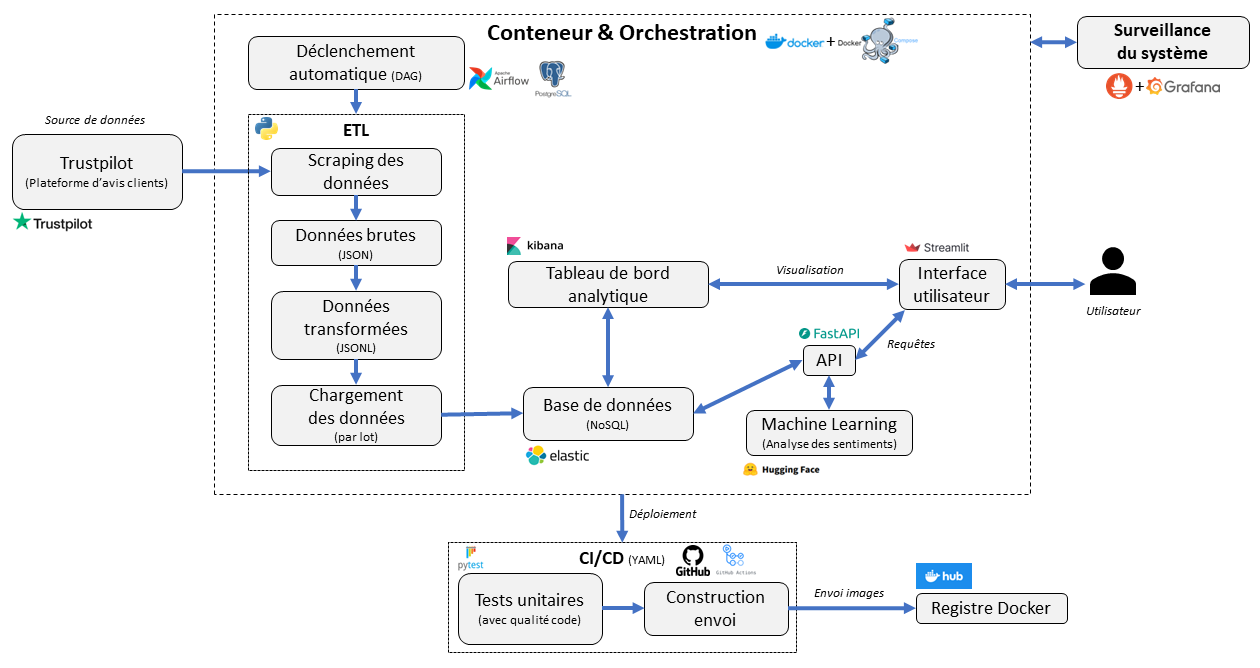
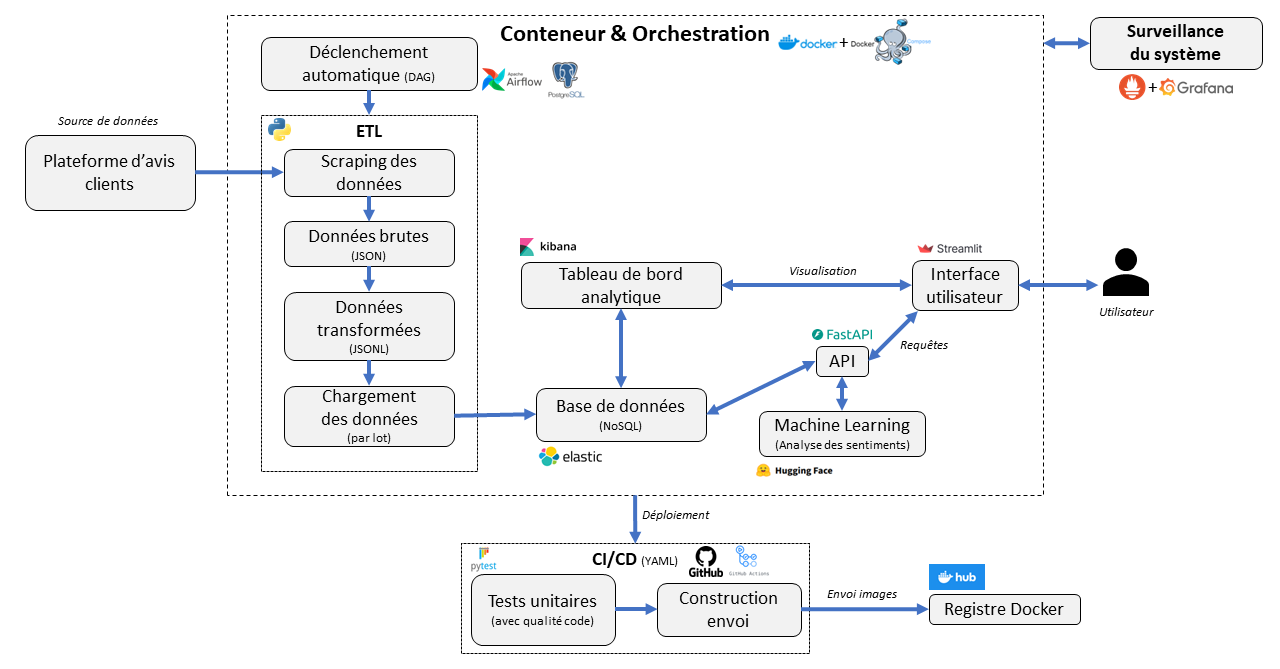
feat: màj readme et ajout commentaire dans start_stack et correctifs divers

diff --git a/src/etl/extract/reviews_scraper.py b/src/etl/extract/reviews_scraper.py
@@ -1,10 +1,10 @@
 # File: src\etl\extract\reviews_scraper.py
 
 """
-Module pour scraper les avis Trustpilot d'une ou plusieurs entreprises.
+Module pour scraper les avis d'une ou plusieurs entreprises.
 
-Ce module permet d'extraire les avis Trustpilot à partir de l'URL d'une entreprise,
-en utilisant l'API de Trustpilot, tout en gérant la pagination et les erreurs éventuelles.
+Ce module permet d'extraire les avis à partir de l'URL d'une entreprise,
+en utilisant l'API, tout en gérant la pagination et les erreurs éventuelles.
 
 Les avis sont récupérés par pages, avec un maximum configurable par entreprise.
 """
@@ -26,20 +26,20 @@ logger.info(f"Entreprises configurées : {[e['enterprise_url'] for e in ENTERPRI
 
 async def get_reviews_url_api(url_base: str) -> str:
     """
-    Génére l'URL de l'API Trustpilot pour récupérer les avis d'une entreprise.
+    Génére l'URL de l'API pour récupérer les avis d'une entreprise.
 
     Cette fonction extrait dynamiquement le 'buildId' de la page HTML de l'entreprise
-    et construit l'URL de l'API Trustpilot pour accéder aux avis.
+    et construit l'URL de l'API pour accéder aux avis.
 
     Parameters
     ----------
     url_base : str
-        L'URL de la page de l'entreprise sur Trustpilot (par exemple : "https://www.trustpilot.com/review/enterprise_url").
+        L'URL de la page de l'entreprise.
         
     Returns
     -------
     str
-        L'URL complète de l'API Trustpilot pour récupérer les avis de l'entreprise.
+        L'URL complète de l'API pour récupérer les avis de l'entreprise.
         
     Raises
     -----
@@ -61,9 +61,9 @@ async def get_reviews_url_api(url_base: str) -> str:
         # Récupération de l'ID de l'entreprise dans l'URL
         business_unit = url_base.split("review/")[-1]
 
-        # Construction de l'URL de l'API interne Trustpilot (Next.js)
+        # Construction de l'URL de l'API interne(Next.js)
         # - build_id      : identifiant dynamique de build extrait de la page HTML
-        # - business_unit : identifiant de l'entreprise sur Trustpilot
+        # - business_unit : identifiant de l'entreprise
         # - sort=recency  : tri des avis par date la plus récente
         # - languages=fr  : récupération des avis en français uniquement
         url_api = (
@@ -78,7 +78,7 @@ async def get_reviews_url_api(url_base: str) -> str:
 
 async def scrape_reviews(url_base: str, max_pages: int = 1) -> List[Dict]:
     """
-    Récupère et agrège les avis depuis l'API Trustpilot avec gestion de la pagination.
+    Récupère et agrège les avis depuis l'API avec gestion de la pagination.
 
     Cette fonction effectue un scraping des avis d'une entreprise en plusieurs pages si nécessaire.
     Les résultats sont retournés sous forme de liste d'objets JSON contenant les avis.
@@ -86,7 +86,7 @@ async def scrape_reviews(url_base: str, max_pages: int = 1) -> List[Dict]:
     Parameters
     ----------
     url_base : str
-        L'URL de la page de l'entreprise sur Trustpilot (par exemple : "https://www.trustpilot.com/review/enterprise_url").
+        L'URL de la page de l'entreprise.
         
     max_pages : int, optionnel
         Le nombre maximal de pages à récupérer. Par défaut, 1.
@@ -183,7 +183,7 @@ async def get_reviews_from_trustpilot(max_pages: int) -> List[Dict]:
     List[Dict]
         Une liste de dictionnaires contenant les résultats du scraping pour chaque entreprise. 
         Chaque dictionnaire contient :
-        - 'enterprise_url': URL de l'entreprise sur Trustpilot.
+        - 'enterprise_url': URL de l'entreprise.
         - 'enterprise': Informations générales sur l'entreprise (note moyenne, nombre d'avis, etc.).
         - 'reviews': Liste des avis récupérés sous forme de dictionnaires.
 

diff --git a/src/etl/transform/transform_reviews.py b/src/etl/transform/transform_reviews.py
@@ -1,9 +1,9 @@
 # File: src\etl\transform\transform_reviews.py
 
 """
-Module pour transformer les avis Trustpilot en documents compatibles Elasticsearch.
+Module pour transformer les avis en documents compatibles Elasticsearch.
 
-Ce module permet de transformer les avis récupérés depuis Trustpilot en documents structurés et prêts à être
+Ce module permet de transformer les avis récupérés depuis en documents structurés et prêts à être
 indexés dans Elasticsearch. Les avis vides sont remplacés par des valeurs par défaut ("indisponible"), et
 les informations sont nettoyées et formatées pour une insertion efficace dans Elasticsearch.
 """
@@ -48,7 +48,7 @@ def transform_reviews_for_elasticsearch(raw_list: List[Dict[str, Any]]) -> List[
     Transforme tous les avis de toutes les entreprises en documents prêts pour Elasticsearch,
     en nettoyant les avis et en remplaçant les champs vides par des valeurs par défaut.
 
-    Cette fonction prend en entrée une liste de dictionnaires représentant les avis bruts extraits de Trustpilot,
+    Cette fonction prend en entrée une liste de dictionnaires représentant les avis bruts extraits,
     et retourne une nouvelle liste de documents formatés pour Elasticsearch. Les avis vides ou malformés sont
     remplacés par des valeurs par défaut (ex : "indisponible"), et les valeurs numériques sont formatées pour
     correspondre aux attentes d'Elasticsearch (par exemple, les pourcentages sont calculés).
@@ -56,7 +56,7 @@ def transform_reviews_for_elasticsearch(raw_list: List[Dict[str, Any]]) -> List[
     Parameters
     -----------
     raw_list : List[Dict[str, Any]]
-        Une liste de dictionnaires représentant les avis bruts extraits de Trustpilot. Chaque dictionnaire
+        Une liste de dictionnaires représentant les avis bruts extraits. Chaque dictionnaire
         contient des informations sur les avis ainsi que sur l'entreprise associée.
 
     Returns

diff --git a/src/etl/pipeline/reviews_etl.py b/src/etl/pipeline/reviews_etl.py
@@ -1,10 +1,10 @@
 # File: src\etl\pipeline\reviews_etl.py
 
 """
-Module pour exécuter l'ETL des avis Trustpilot (extraction, transformation, sauvegarde et chargement).
+Module pour exécuter l'ETL des avis (extraction, transformation, sauvegarde et chargement).
 
-Ce module orchestre l'ensemble du processus ETL pour les avis Trustpilot : 
-1. Extraction des avis depuis Trustpilot.
+Ce module orchestre l'ensemble du processus ETL pour les avis : 
+1. Extraction des avis.
 2. Transformation des données brutes en documents adaptés pour Elasticsearch.
 3. Sauvegarde des données transformées au format JSONL.
 4. Chargement des données dans Elasticsearch via une insertion en bulk.
@@ -29,7 +29,7 @@ def run_reviews_etl(
     do_load: bool = True
 ) -> None:
     """
-    Lance le pipeline ETL complet des avis Trustpilot avec des options pour exécuter chaque étape.
+    Lance le pipeline ETL complet des avis avec des options pour exécuter chaque étape.
 
     Ce pipeline est constitué de plusieurs étapes : extraction, transformation, sauvegarde et chargement.
     Chaque étape peut être activée ou désactivée en fonction des besoins via les paramètres 'do_extract',
@@ -38,10 +38,10 @@ def run_reviews_etl(
     Parameters
     -----------
     max_pages : int, optionnel
-        Le nombre maximal de pages d'avis à extraire depuis Trustpilot. Par défaut, 1.
+        Le nombre maximal de pages d'avis à extraire. Par défaut, 1.
 
     do_extract : bool, optionnel
-        Si 'True', l'extraction des avis depuis Trustpilot est effectuée. Par défaut, 'True'.
+        Si 'True', l'extraction des avis est effectuée. Par défaut, 'True'.
 
     do_transform : bool, optionnel
         Si 'True', les avis extraits sont transformés en documents compatibles avec Elasticsearch. Par défaut, 'True'.

diff --git a/src/etl/main.py b/src/etl/main.py
@@ -3,14 +3,14 @@
 """
 Main script
 -----------
-Exécution du pipeline ETL pour récupérer les avis Trustpilot, avec possibilité de définir
+Exécution du pipeline ETL pour récupérer les avis, avec possibilité de définir
 le nombre de pages à scraper.
 
-Ce script permet de lancer un pipeline ETL complet pour récupérer les avis des entreprises
-sur Trustpilot. Le nombre de pages à scraper peut être spécifié via la ligne de commande.
+Ce script permet de lancer un pipeline ETL complet pour récupérer les avis des entreprises.
+Le nombre de pages à scraper peut être spécifié via la ligne de commande.
 
 Le pipeline ETL inclut les étapes suivantes :
-1. Extraction des avis depuis Trustpilot.
+1. Extraction des avis.
 2. Transformation des avis pour les rendre compatibles avec Elasticsearch.
 3. Sauvegarde des données en format JSONL.
 4. Chargement des données dans Elasticsearch.
@@ -31,7 +31,7 @@ MAX_PAGES = 10
 
 def run_pipeline(pages: int) -> None:
     """
-    Lance le pipeline ETL pour récupérer les avis Trustpilot et effectuer les étapes
+    Lance le pipeline ETL pour récupérer les avis et effectuer les étapes
     d'extraction, transformation, sauvegarde et chargement.
 
     Parameters
@@ -52,7 +52,7 @@ def run_pipeline(pages: int) -> None:
 
 if __name__ == "__main__":
     # Parsing des arguments de ligne de commande
-    parser = argparse.ArgumentParser(description="Lancer le pipeline ETL Trustpilot")
+    parser = argparse.ArgumentParser(description="Lancement du pipeline ETL")
     parser.add_argument(
         "--pages",
         type=int,

diff --git a/src/airflow/dags/etl_reviews_dag.py b/src/airflow/dags/etl_reviews_dag.py
@@ -1,7 +1,7 @@
 # File: src\airflow\dags\etl_reviews_dag.py
 
 """
-Ce module définit un DAG Airflow pour exécuter périodiquement le pipeline ETL des avis Trustpilot.
+Ce module définit un DAG Airflow pour exécuter périodiquement le pipeline ETL des avis.
 Le DAG est configuré pour s'exécuter toutes les 3 jours à minuit et lance une tâche Bash
 qui exécute le script principal du pipeline ETL avec un paramètre spécifiant le nombre de pages à scraper.
 

diff --git a/src/tests/test_reviews_scraper.py b/src/tests/test_reviews_scraper.py
@@ -1,9 +1,9 @@
 # File: tests\test_reviews_scraper.py
 
 """
-Test de l'accessibilité de l'URL Trustpilot.
+Test de l'accessibilité de l'URL.
 
-Ce test effectue une requête HTTP GET sur l'URL d'une entreprise sur Trustpilot
+Ce test effectue une requête HTTP GET sur l'URL d'une entreprise
 pour vérifier si la page est accessible (statut HTTP 200).
 """
 

diff --git a/src/tests/test_transform_reviews.py b/src/tests/test_transform_reviews.py
@@ -11,7 +11,7 @@ les pourcentages de chaque note sont calculés correctement.
 from etl.transform.transform_reviews import transform_reviews_for_elasticsearch
 
 
-# Exemple de données brutes (avis Trustpilot)
+# Exemple de données brutes
 raw_reviews = [
     {
         "reviews": [

diff --git a/README.md b/README.md
@@ -4,12 +4,25 @@
 
 ![Schéma d'architecture du projet](images\architecture_projet.png)
 
-## Trustpilot → Pipeline ETL → Elasticsearch
+## Site d'avis de clients → Pipeline ETL → Elasticsearch
 
-Ce dépôt contient un pipeline **Extract – Transform – Load (ETL)** permettant de collecter des avis publiés sur **Trustpilot** et de les indexer dans **Elasticsearch** sous le nom d’indice **`reviews`**. Il inclut :
-- Extraction : récupération des avis pour plusieurs entreprises, gestion des pages et filtrage automatique.
-- Transformation : nettoyage des textes, parsing des dates et normalisation des données.
-- Chargement : insertion dans Elasticsearch et mise à jour incrémentale.
+Ce dépôt contient un pipeline **ETL (Extract – Transform – Load)** conçu pour collecter des avis publiés et les indexer dans **Elasticsearch** sous l’indice **`reviews`**. Il comprend les étapes suivantes :
+
+### Extraction
+- Récupération des avis pour une ou plusieurs entreprises (dans ce projet, une seule entreprise).
+- Gestion automatique de la pagination pour collecter tous les avis disponibles.
+- Filtrage et traitement initial des données afin d’assurer la qualité et la cohérence.
+
+### Transformation
+- Anonymisation des informations personnelles pour respecter le **RGPD**.
+- Nettoyage et normalisation des textes.
+- Parsing des dates et formatage des champs pour correspondre aux standards Elasticsearch.
+- Préparation des données pour un chargement efficace et incrémental.
+
+### Chargement
+- Insertion des données dans Elasticsearch via des opérations **bulk** pour optimiser la performance.
+- Mise à jour incrémentale (**upsert**) pour éviter les doublons et maintenir l’indice à jour.
+- Gestion des erreurs et logs détaillés pour faciliter le suivi et le débogage.
 
 ## Stack Docker complet
 
@@ -86,9 +99,12 @@ de lancer la commande suivante :
 
 ## 4. Exécution avec Docker Compose
 
-⚠ Attention :</br>
-La commande ci-dessous supprime tous les conteneurs, images et volumes Docker liés au stack, et réinitialise toutes les données persistantes.
+⚠ **Attention** :</br>
+   - La commande ci-dessous supprime tous les conteneurs, images et volumes Docker liés au stack, et réinitialise toutes les données persistantes.
 Utilisez-la uniquement si vous voulez repartir complètement à zéro ou pour votre première exécution du stack.
+
+   - Si ce script est modifié sous Windows (VS Code),
+exécuter `dos2unix start_stack.sh` avant de lancer le script
 
    ```bash
    cd src/docker
